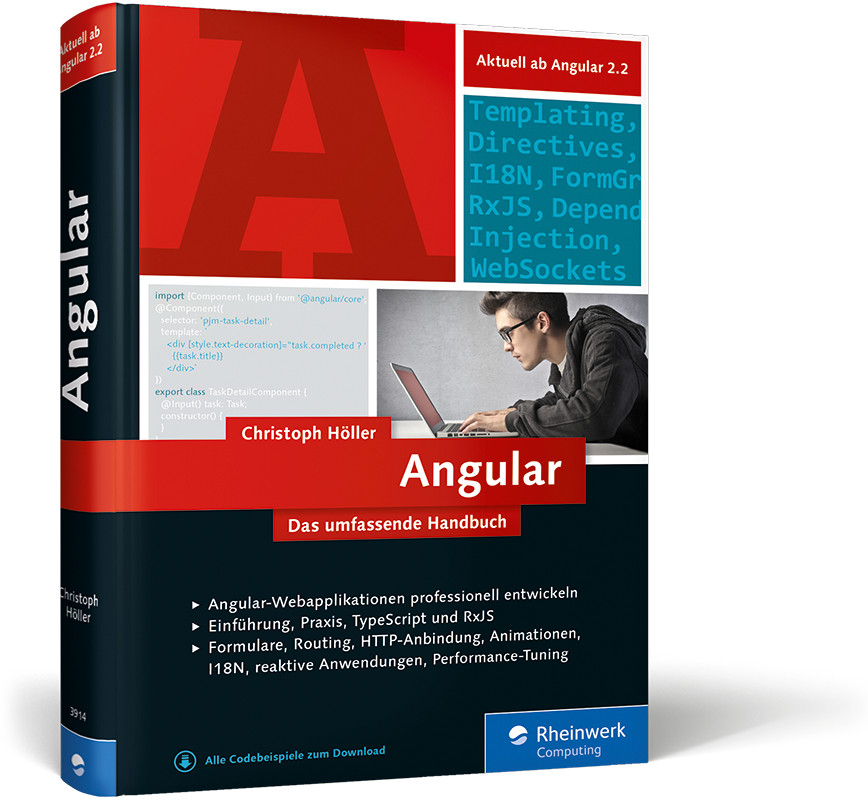
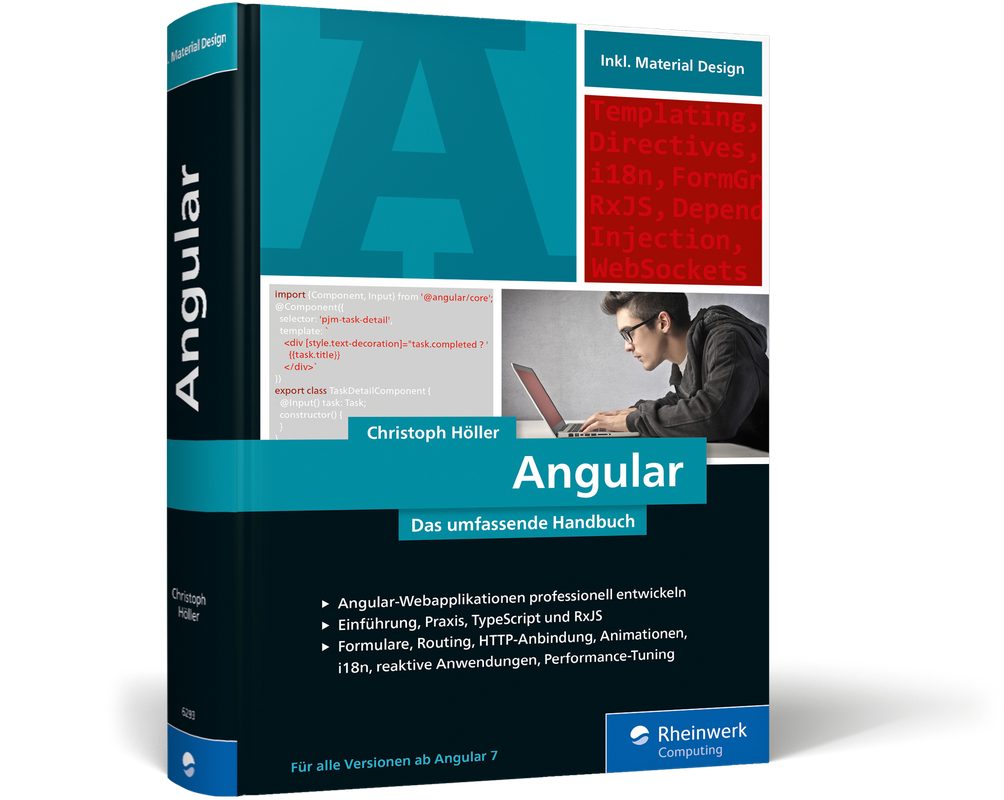
New cover

diff --git a/index.html b/index.html
@@ -12,7 +12,7 @@ description: "Das umfassende Handbuch"
                 <h3>Angular - Das umfassende Handbuch</h3>
                 <h4>Christoph Höller</h4>
                 <div class="buy-now-link">
-                    <a href="https://www.rheinwerk-verlag.de/angular-20_3988?GPP=hoeller/" target="_blank"
+                    <a href="https://www.rheinwerk-verlag.de/angular_4639?GPP=hoeller/" target="_blank"
                        style="margin-top: 117px" class="btn btn-primary">Jetzt bestellen!</a>
                 </div>
             </div>
